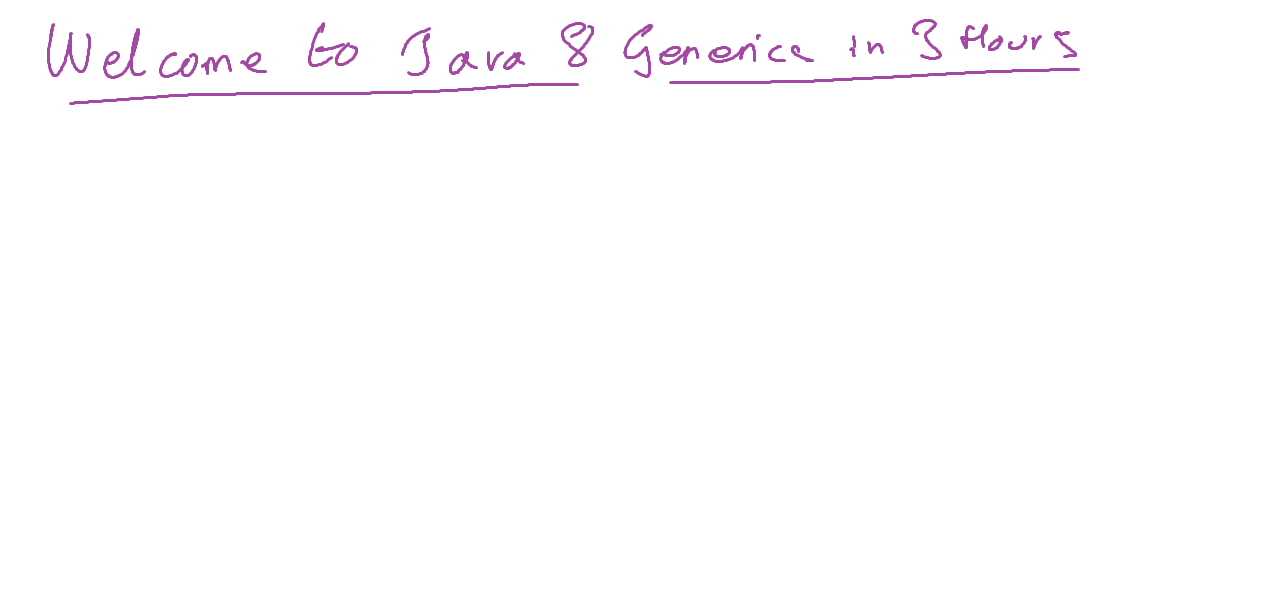
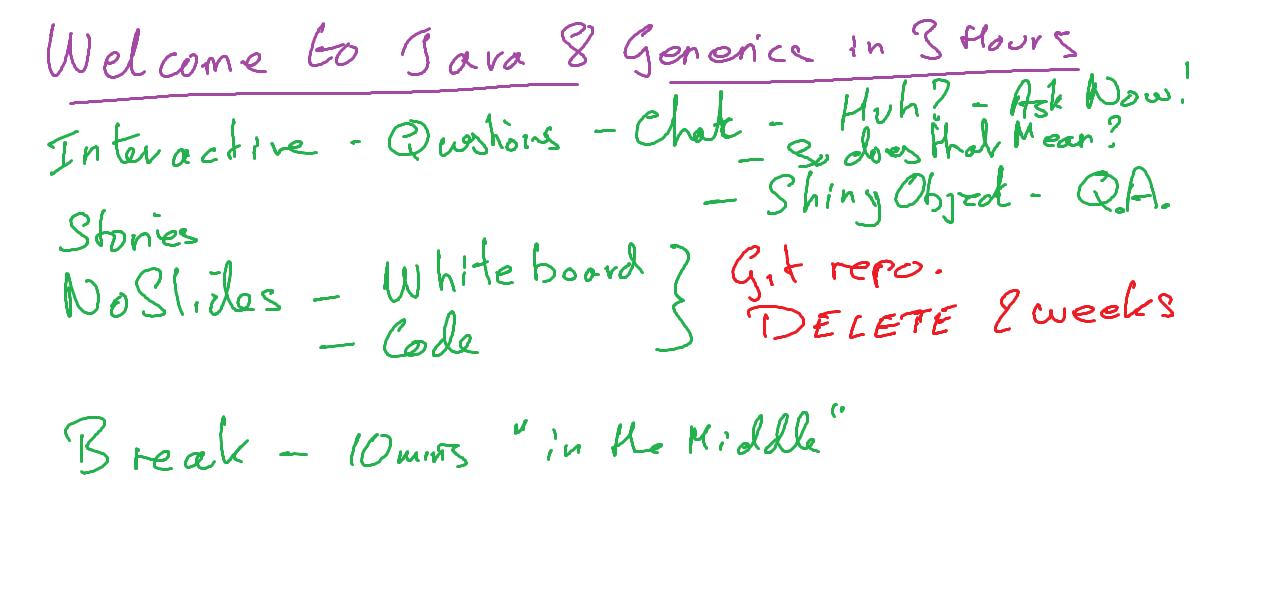
Mid Break

diff --git a/src/main/java/simple/UseAList.java b/src/main/java/simple/UseAList.java
@@ -1,0 +1,35 @@
+package simple;
+
+import java.time.LocalDate;
+import java.util.ArrayList;
+import java.util.Arrays;
+import java.util.Collections;
+import java.util.List;
+
+public class UseAList {
+  // might happen with older libraries
+  public static void breakMyList(List n) {
+    n.add(2, LocalDate.now());
+  }
+  public static void main(String[] args) {
+    // Compile time constraint
+    List<String> names =
+        // Diamond operator "<>" infers suitable value for E...
+        new ArrayList<>(Arrays.asList("Fred", "Jim",
+            "Sheila"/*, LocalDate.now()*/));
+    names = Collections.checkedList(names, String.class);
+    names.add("Fred");
+    names.add("Jim");
+//    names.add(LocalDate.now());
+    names.add("Sheila");
+//    breakMyList(names);
+
+    Class cl = names.getClass();
+    System.out.println("Class of names is " + cl.getName());
+    System.out.println("Class of string is " + String.class.getName());
+
+    String nameZero = /*(String)*/names.get(0);
+    String nameTwo = /*(String)*/names.get(2);
+    System.out.println("Name number 2 is " + names.get(2));
+  }
+}

diff --git a/src/main/java/shopping/Store.java b/src/main/java/shopping/Store.java
@@ -1,0 +1,21 @@
+package shopping;
+
+import java.time.LocalDate;
+
+public class Store {
+  public static void main(String[] args) {
+    Pair<String> p = new Pair<>("Fred", "Jones");
+    p.setLeft("Frederick!");
+//    p.matches(); // Nonsense!!!
+
+    ClothingPair<Glove> pg = new ClothingPair<>(
+        new Glove(9, "Red"), new Glove(8, "Red"));
+    System.out.println("Left glove is " + pg.getLeft());
+    System.out.println("Pair is good " + pg.matches());
+
+    ClothingPair<Glove> pg2 = new ClothingPair<>(
+        new Glove(8, "Red-Brown"), new Glove(8, "Red"));
+    System.out.println("Pair 2 is good " + pg2.matches());
+
+  }
+}

diff --git a/src/main/java/shopping/Glove.java b/src/main/java/shopping/Glove.java
@@ -1,0 +1,29 @@
+package shopping;
+
+public class Glove implements Sized, Colored {
+  private int size;
+  private String color;
+
+  public Glove(int size, String color) {
+    this.size = size;
+    this.color = color;
+  }
+
+  @Override
+  public int getSize() {
+    return size;
+  }
+
+  @Override
+  public String getColor() {
+    return color;
+  }
+
+  @Override
+  public String toString() {
+    return "Glove{" +
+        "size=" + size +
+        ", color='" + color + '\'' +
+        '}';
+  }
+}

diff --git a/src/main/java/shopping/ClothingPair.java b/src/main/java/shopping/ClothingPair.java
@@ -1,0 +1,15 @@
+package shopping;
+
+public class ClothingPair<E extends /*Object & */Sized & Colored/*, String*/>
+    extends Pair<E> {
+//  private java.lang.String s = "Hello";
+//  private String s = "Hello";
+  public ClothingPair(E left, E right) {
+    super(left, right);
+  }
+
+  public boolean matches() {
+    return left.getSize() == right.getSize()
+        && left.getColor().equals(right.getColor());
+  }
+}

diff --git a/src/main/java/shopping/Pair.java b/src/main/java/shopping/Pair.java
@@ -1,0 +1,27 @@
+package shopping;
+
+public class Pair<E> {
+  protected E left;
+  protected E right;
+
+  public Pair(E left, E right) {
+    this.left = left;
+    this.right = right;
+  }
+
+  public E getLeft() {
+    return left;
+  }
+
+  public void setLeft(E left) {
+    this.left = left;
+  }
+
+  public E getRight() {
+    return right;
+  }
+
+  public void setRight(E right) {
+    this.right = right;
+  }
+}

diff --git a/src/main/java/shopping/Colored.java b/src/main/java/shopping/Colored.java
@@ -1,0 +1,5 @@
+package shopping;
+
+public interface Colored {
+  String getColor();
+}

diff --git a/src/main/java/shopping/Sized.java b/src/main/java/shopping/Sized.java
@@ -1,0 +1,5 @@
+package shopping;
+
+public interface Sized {
+  int getSize();
+}
